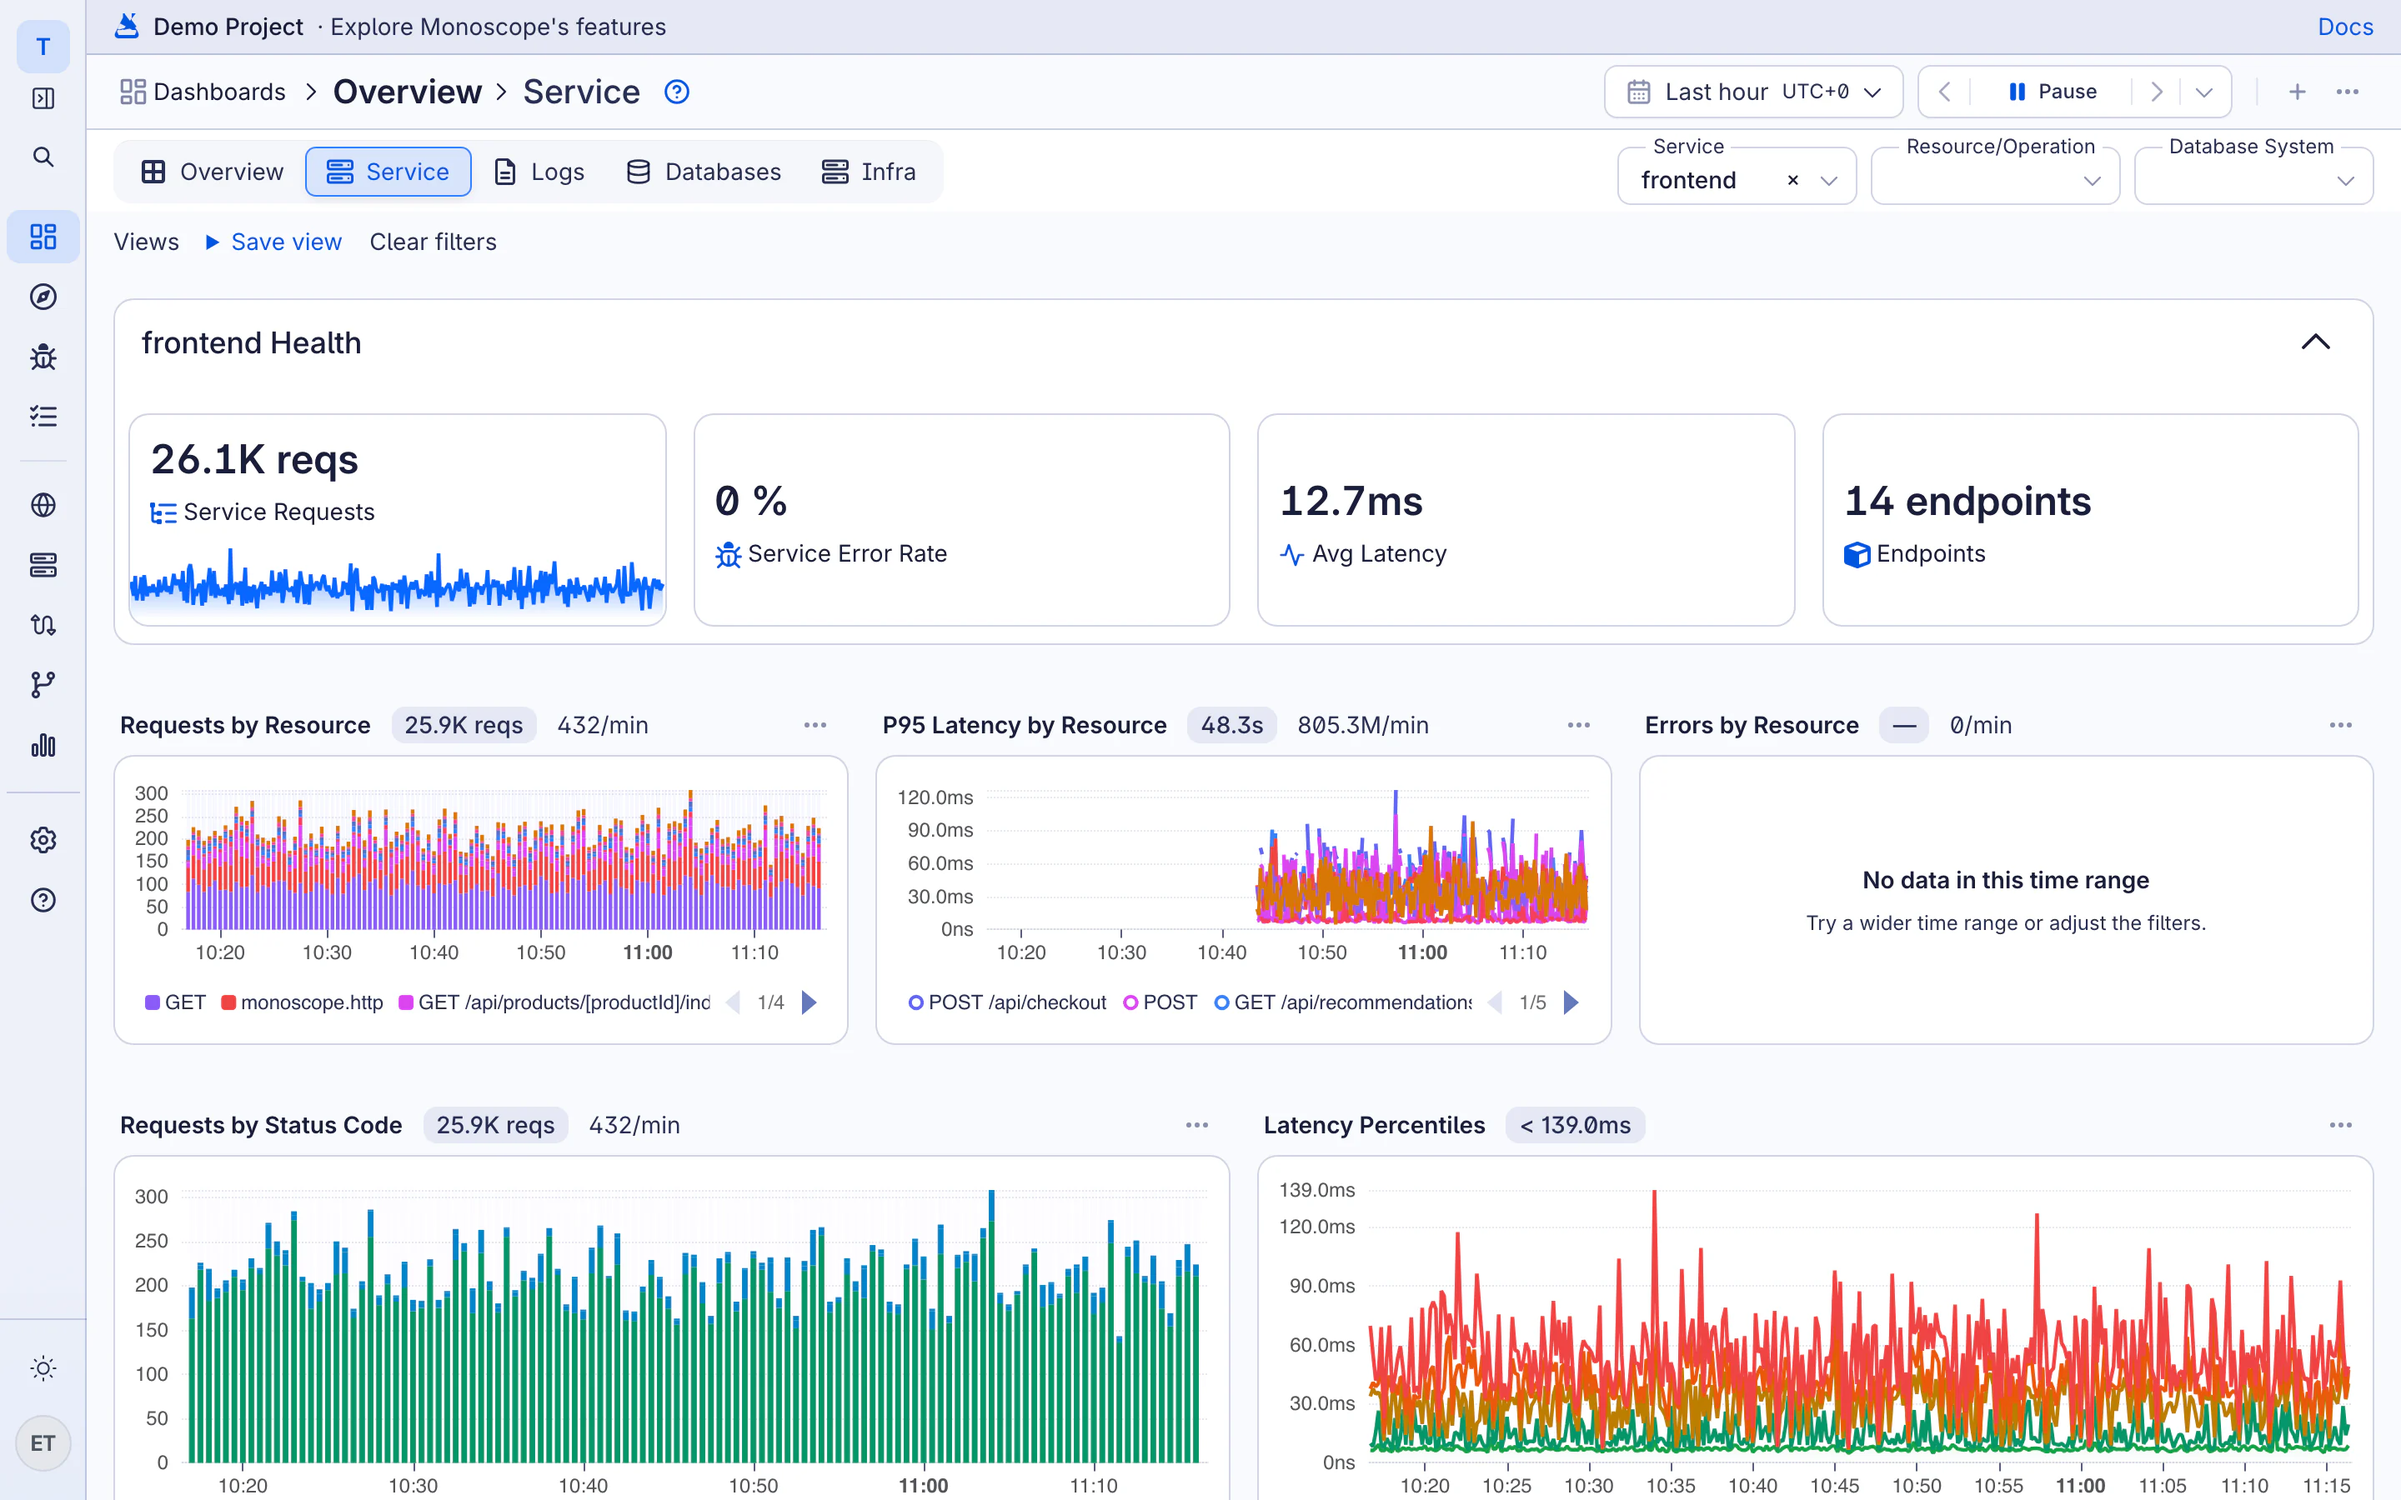
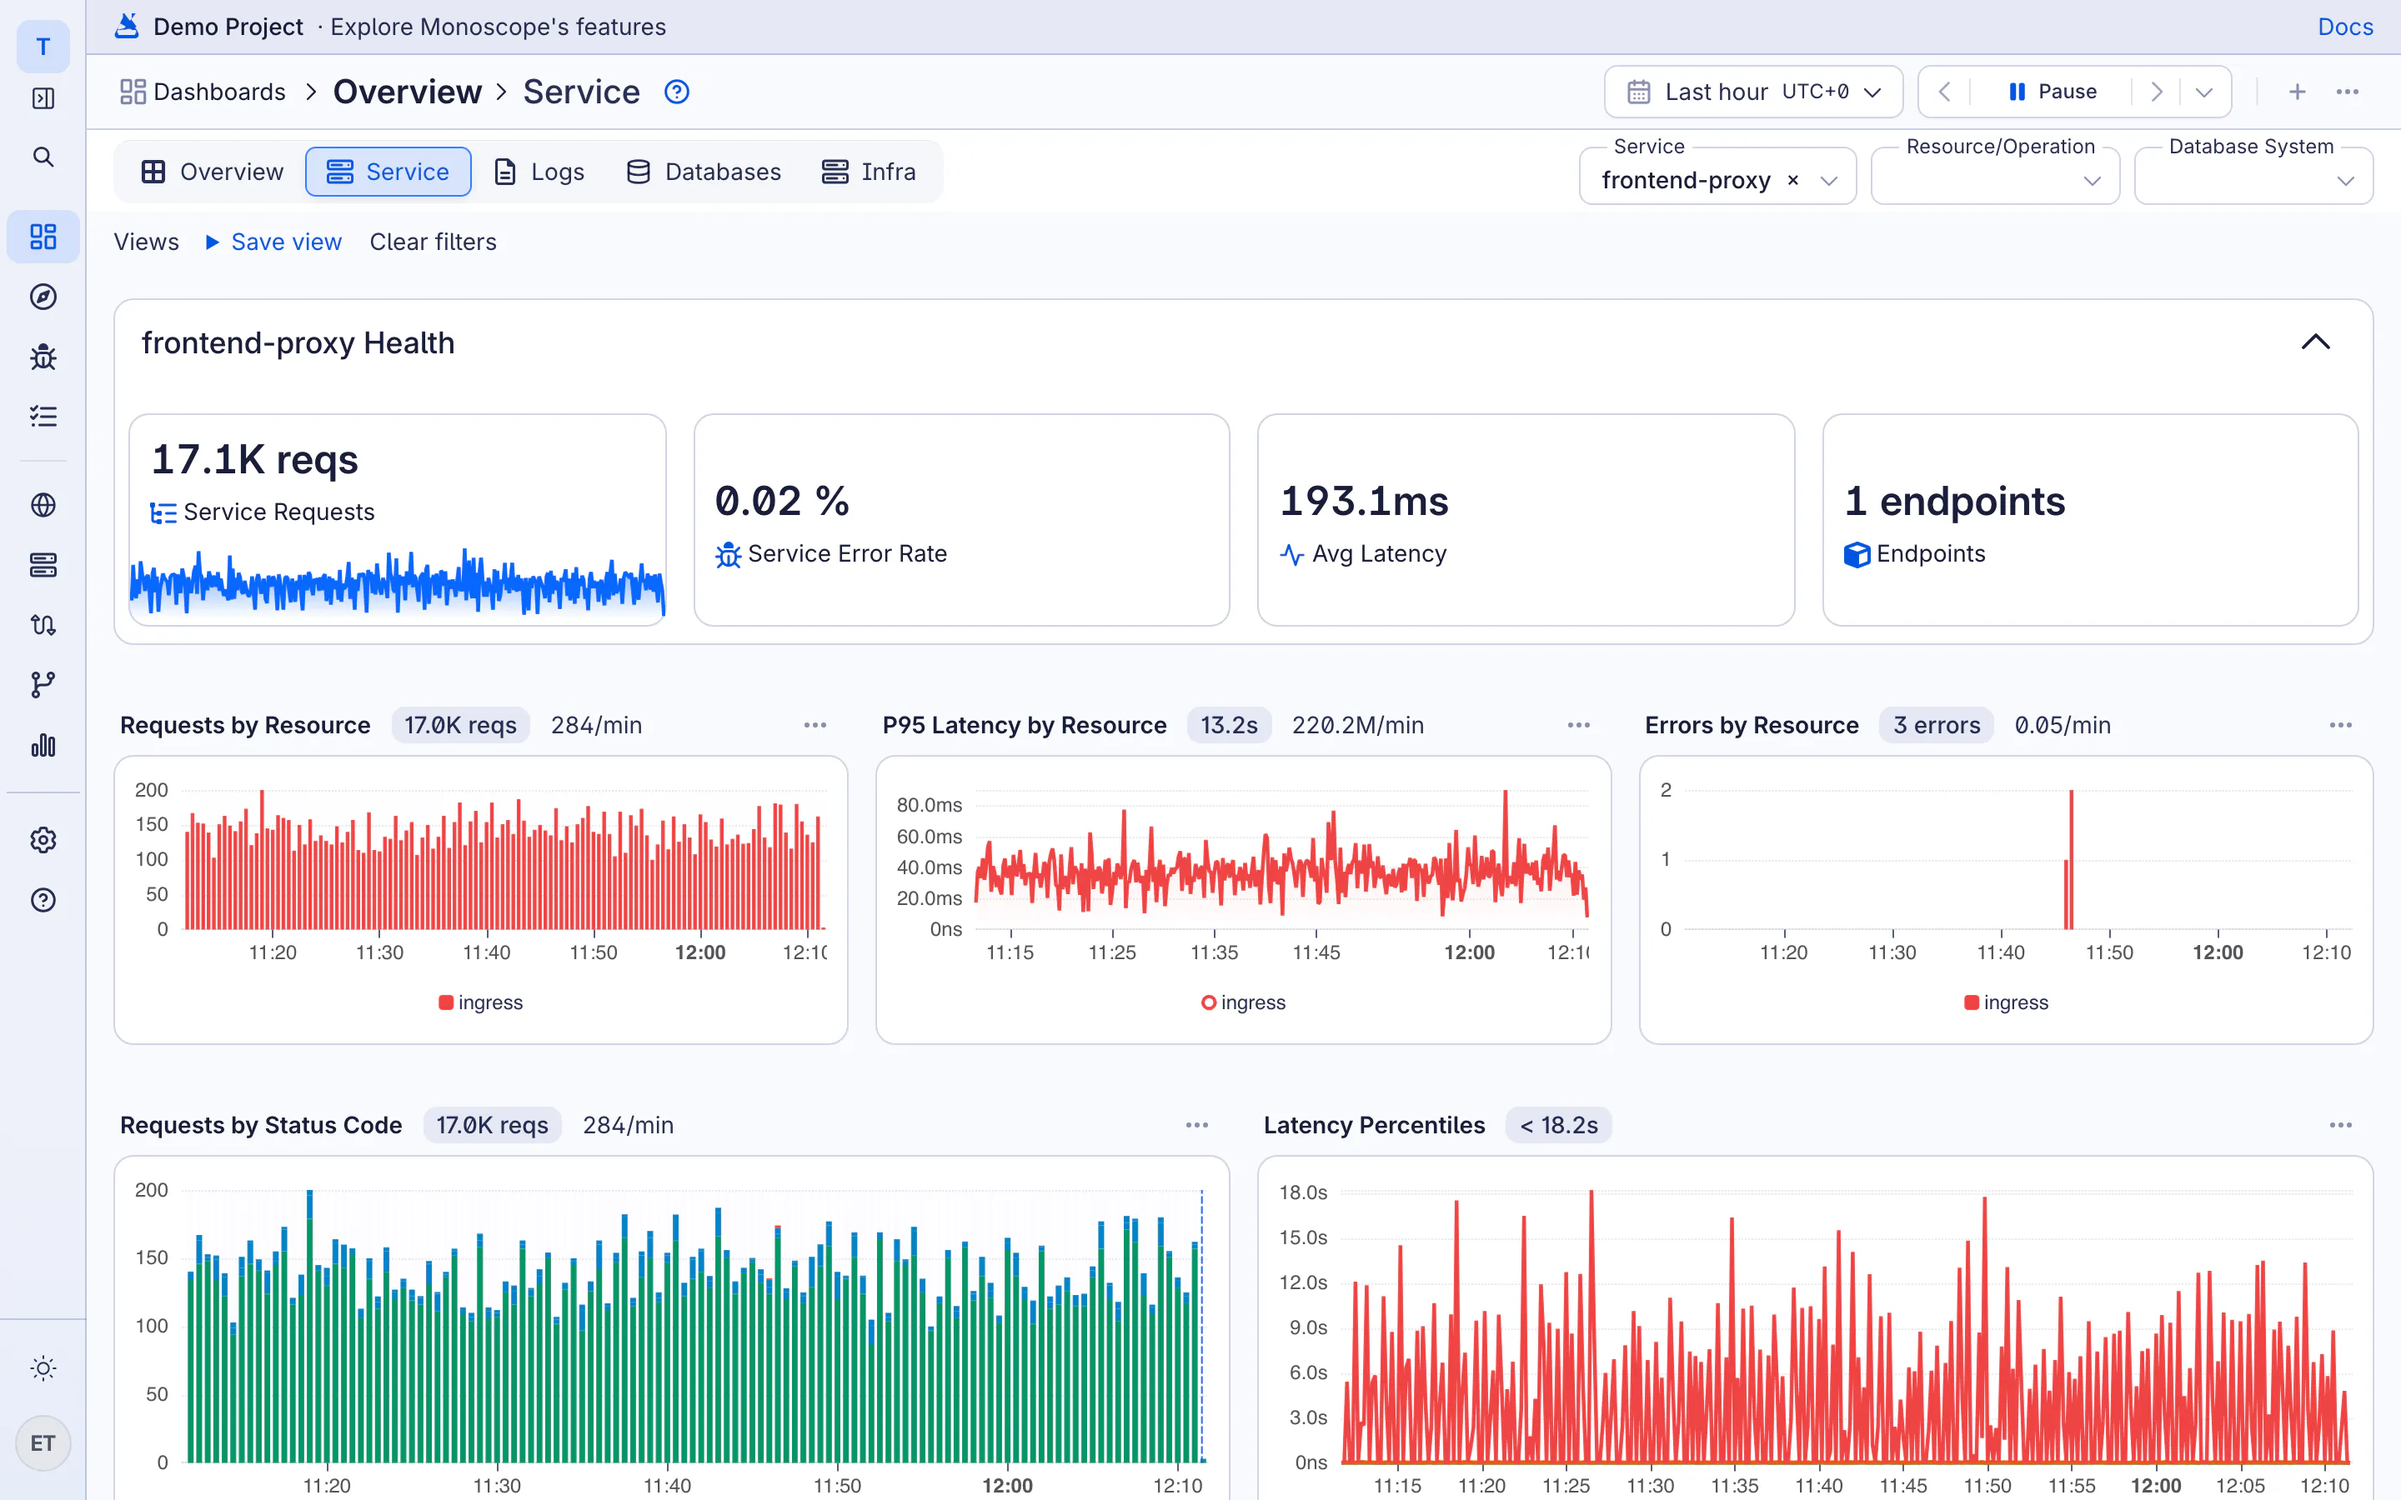
Product shots: add otel-setup, log-explorer-ask, trace-inline, apm-endpoint; recapture cramped or empty ones

diff --git a/assets/img/product/manifest.md b/assets/img/product/manifest.md
@@ -1,27 +1,33 @@
 # Product screenshots
 
-Captured from the public demo project (`https://app.monoscope.tech/p/00000000-0000-0000-0000-000000000000`) with `scripts/capture-product-shots.mjs`. Viewport 1440×900 at 2x (2880×1800 WebP, `cwebp -q 86 -m 6 -sharp_yuv`), timezone UTC. Every shot exists as `<name>-dark.webp` and `<name>-light.webp`; the theme is set with the app's `theme` cookie. All shots are full-viewport (no crop) and keep the sidebar and header.
+Captured from the public demo project (`https://app.monoscope.tech/p/00000000-0000-0000-0000-000000000000`) with `scripts/capture-product-shots.mjs`. Viewport 1440×900 at 2x (2880×1800 WebP, `cwebp -q 80 -m 6 -sharp_yuv`; shots not recaptured on 2026-10-29 used `-q 86`), timezone UTC. Every shot exists as `<name>-dark.webp` and `<name>-light.webp`; the theme is set with the app's `theme` cookie. All shots are full-viewport (no crop) and keep the sidebar and header.
 
 The script hides the demo-only "Book Demo" / "Start Free Trial" header buttons, chat widgets and toasts. Refresh everything with `node scripts/capture-product-shots.mjs`, or refresh single shots with `node scripts/capture-product-shots.mjs trace issues`.
 
-| name | URL path (under `/p/<demo>`) | what it shows | interaction |
-| --- | --- | --- | --- |
-| log-explorer | `/log_explorer` | Explorer: query bar, traces volume chart and latency percentile chart, facet sidebar, live log/span list across services | none |
-| log-explorer-request | `/log_explorer?query=body.response_body != null` | An incoming `GET /api/products/{param}` request opened in the details panel, Request tab, with the JSON response body (product description, categories) visible | clicked the first `/api/products/` row; Res Body tab |
-| trace | `/log_explorer?query=trace_id=="71a7e99c…"&from=2026-10-28T14:50Z&to=…15:00Z` | Trace Breakdown waterfall for a 96-span, 8-error, 9.4 s checkout trace across 11 services (frontend-web → frontend-proxy → frontend → shipping → quote …) | clicked the row, then "View trace". The trace view opens full-screen, so this shot has no app sidebar |
-| issues | `/issues` | Issues inbox: critical 500 errors, gRPC errors, rage clicks, schema changes, with activity sparklines and counts | none |
-| issue-detail | `/issues/e76bd12d-0c56-4779-a348-79e758105791` | Issue #113557 "Shipping Quote Failure in Checkout Service": error frequency chart, AI analysis ("Likely cause: Network"), event highlights, contexts and trace ids | none |
-| dashboard-overview | `/dashboards/6f5ee51d-…/tab/overview` | Overview dashboard: golden signals (traffic, P95 latency, error rate, Apdex), system overview, services health table, ongoing issues | none |
-| dashboard-service | `/dashboards/6f5ee51d-…/tab/service?var-service=frontend` | Overview dashboard, Service tab for `frontend`: requests, error rate, avg latency, endpoints, requests and P95 by resource, status codes, latency percentiles | service picked via URL variable |
-| session-replay | `/rum/sessions` (redirects to Explorer, Sessions view) | Session replay player over the sessions list: a shopper's cart page mid-playback (00:25 of 00:29) | replayed the longest session, let it finish, clicked "Replay from start" |
-| ai-chat | `/ai/757db319-a5b3-431c-bd47-bedb08f33cf3` | AI conversation "Investigate Telemetry, Flagd, and Disk Pressure Alerts": a findings list, an inline bar chart of errors by service, and "8 tool calls" | scrolled the thread down 100px so the chart is in full view (the user's prompt scrolls out) |
-| routines | `/ai/routines` | Routines: 3 installed daily routines (error spikes, faulty metrics, today's logs) with Pause / Send to Slack, plus recent successful runs | none |
-| monitors | `/monitors` | Monitors list: 4 active monitors with KQL queries, schedules, last run and alert/warn thresholds, one alerting | none |
-| api-catalog | `/api_catalog` | API Catalog, incoming: hosts with 24h event counts, last seen, activity bars, Logs / API docs links | none |
-| metrics | `/metrics` | Metrics explorer, Charts view: grid of metric charts (memory pools, routing, browser web vitals) with group-by pickers | none |
-| service-map | `/service_map` | Service map: 34 services and 51 dependencies, left-to-right request flow, per-node error rate, latency and req/s, one dependency group flagged with errors | none |
-| api-changes | `/issues/dd87a53a-b8bb-4236-9ae2-0360834e73d7` | Schema-change issue #113292 "API Change: Cart Endpoint Response Field Modified": `GET /api/cart`, field-changes table with before/after inferred formats and sample values (`user.id`: text, uuid → text), matching span activity chart | none (the list view is `/issues?type=api_change`) |
-| settings-api-keys | `/apis` | Settings, API Keys: two active keys, masked by the app | none |
-| settings-integrations | `/settings/integrations` | Settings, Integrations: Email, Slack, Discord, WhatsApp, PagerDuty notification channels | hid the demo's "Slack token rejected / Reconnect" warning block |
-| settings-members | `/manage_teams` | Settings, Team, Teams tab: the default "Everyone" team | none. The demo has no invited members (the Members tab is an empty state), so this is the populated view |
-| onboarding | `/onboarding?step=Integration` | Onboarding step 4 of 5 "Instrument your apps or servers": API key, language picker (Javascript selected) and the ExpressJS integration guide, including install via Claude Code | clicked "Javascript"; the API key is masked to its first 8 characters |
+| name | URL path (under `/p/<demo>`) | what it shows | interaction | captured |
+| --- | --- | --- | --- | --- |
+| log-explorer | `/log_explorer` | Explorer: query bar, traces volume chart and latency percentile chart, facet sidebar, live log/span list across services | none | 2026-10-29 |
+| log-explorer-request | `/log_explorer?query=body.response_body != null` | An incoming `GET /api/products/{param}` request opened in the details panel, Request tab, with the JSON response body (product description, categories) visible; facet sidebar hidden so the list keeps its method/path column | toggled "Hide filters", clicked the first `/api/products/` row; Res Body tab | 2026-10-29 (recaptured) |
+| log-explorer-ask | `/log_explorer`, Ask AI: "requests that took longer than 1 second" | Explorer with the Ask AI row open: the plain-English question, the generated query `duration > 1s`, 2.1K matching rows in the charts and list (pageviews, flagd streams, accounting consumers, load-generator checkouts) | typed the question into Ask AI and pressed Enter. Each theme is a live AI call; this question returned `duration > 1s` on every run | 2026-10-29 |
+| trace-inline | `/log_explorer?query=name has "user_checkout"` | Log list with a load-generator `user_checkout_single` trace (74 spans) expanded inline: load-generator → frontend-proxy → frontend → product-catalog → postgres `SELECT`, then the `POST /api/cart` branch, with per-span latency and waterfall bars | toggled "Hide filters", clicked the first row's "Expand trace" toggle | 2026-10-29 |
+| trace | `/log_explorer?query=trace_id=="71a7e99c…"&from=2026-10-28T14:50Z&to=…15:00Z` | Trace Breakdown waterfall for a 96-span, 8-error, 9.4 s checkout trace across 11 services (frontend-web → frontend-proxy → frontend → shipping → quote …) | clicked the row, then "View trace". The trace view opens full-screen, so this shot has no app sidebar | 2026-10-29 |
+| issues | `/issues` | Issues inbox: critical 500 errors, gRPC errors, rage clicks, schema changes, with activity sparklines and counts | none | 2026-10-29 |
+| issue-detail | `/issues/e76bd12d-0c56-4779-a348-79e758105791` | Issue #113557 "Shipping Quote Failure in Checkout Service": error frequency chart, AI analysis ("Likely cause: Network"), event highlights, contexts and trace ids | none | 2026-10-29 |
+| dashboard-overview | `/dashboards/6f5ee51d-…/tab/overview` | Overview dashboard: golden signals (traffic, P95 latency, error rate, Apdex), system overview, services health table, ongoing issues | none | 2026-10-29 |
+| dashboard-service | `/dashboards/6f5ee51d-…/tab/service?var-service=frontend-proxy` | Overview dashboard, Service tab for `frontend-proxy`: 17K requests, 0.02% error rate, avg latency, requests / P95 latency / errors by resource (3 errors), requests by status code, latency percentiles | service picked via URL variable (`frontend-proxy` is the only service whose "Errors by Resource" panel is not empty) | 2026-10-29 (recaptured) |
+| session-replay | `/rum/sessions` (redirects to Explorer, Sessions view) | Session replay player over the sessions list: a shopper's cart page mid-playback (00:25 of 00:29). Product images show as broken-image alt text: the recorded page points at the demo shop's internal image host | replayed the longest session, let it finish, clicked "Replay from start" | 2026-10-29 |
+| ai-chat | `/ai/757db319-a5b3-431c-bd47-bedb08f33cf3` | AI conversation "Investigate Telemetry, Flagd, and Disk Pressure Alerts": a findings list, an inline bar chart of errors by service, and "8 tool calls" | scrolled the thread down 100px so the chart is in full view (the user's prompt scrolls out) | 2026-10-29 |
+| routines | `/ai/routines` | Routines: 3 installed daily routines (error spikes, faulty metrics, today's logs) with Pause / Send to Slack, plus recent successful runs | none | 2026-10-29 |
+| monitors | `/monitors` | Monitors list: 4 active monitors with KQL queries, schedules, last run and alert/warn thresholds, one alerting | none | 2026-10-29 |
+| api-catalog | `/api_catalog` | API Catalog, incoming: hosts with 24h event counts, last seen, activity bars, Logs / API docs links | none | 2026-10-29 |
+| metrics | `/metrics` | Metrics explorer, Charts view: grid of metric charts (memory pools, routing, browser web vitals) with group-by pickers | none | 2026-10-29 |
+| service-map | `/service_map` | Service map: 34 services and 51 dependencies, left-to-right request flow, per-node error rate, latency and req/s, one dependency group flagged with errors | dragged the canvas 55px down so the first column clears the "Requests flow left to right" chip | 2026-10-29 (recaptured) |
+| apm-endpoint | `/dashboards/be6c5d62-…/tab/latency?var-endpointHash=a213f867&var-host=frontend` (reached from `/endpoints/details?var-endpointHash=a213f867&var-host=frontend`) | Endpoint Analytics, Latency tab for `POST /api/checkout` on `frontend`: P50 / P75 / P95 / P99 cards (about 63–66 ms) with sparklines, and latency percentiles over the last hour. This tab has no throughput; `dashboard-service` shows requests per resource | none | 2026-10-29 |
+| api-changes | `/issues/dd87a53a-b8bb-4236-9ae2-0360834e73d7` | Schema-change issue #113292 "API Change: Cart Endpoint Response Field Modified": `GET /api/cart`, field-changes table with before/after inferred formats and sample values (`user.id`: text, uuid → text), matching span activity chart | none (the list view is `/issues?type=api_change`) | 2026-10-29 |
+| settings-api-keys | `/apis` | Settings, API Keys: two active keys, masked by the app | none | 2026-10-29 |
+| settings-integrations | `/settings/integrations` | Settings, Integrations: Email, Slack, Discord, WhatsApp, PagerDuty notification channels | hid the demo's "Slack token rejected / Reconnect" warning block | 2026-10-29 |
+| settings-members | `/manage_teams` | Settings, Team, Teams tab: the default "Everyone" team | none. The demo has no invited members (the Members tab is an empty state), so this is the populated view | 2026-10-29 |
+| onboarding | `/onboarding?step=Integration` | Onboarding step 4 of 5 "Instrument your apps or servers": API key, language picker (Javascript selected, "waiting" for data) and the ExpressJS integration guide, including the coding-agent setup | clicked "Javascript"; the API key is masked to its first 8 characters | 2026-10-29 (recaptured) |
+| otel-setup | `/onboarding?step=Integration` | Same onboarding step, guide scrolled to "OpenTelemetry Configuration": `OTEL_EXPORTER_OTLP_ENDPOINT="http://otelcol.monoscope.tech:4317"`, `OTEL_RESOURCE_ATTRIBUTES="x-api-key=YOUR_API_KEY"`, service name and gRPC protocol, next to the masked project API key | clicked "Javascript", scrolled the guide; API key masked | 2026-10-29 |
+
+Not in the demo project (checked 2026-10-29): **uptime checks**. The page exists (`/monitors/uptime`, the "Uptime checks" button on Monitors) but the demo has no checks configured, so it shows the "No uptime checks yet" empty state. There is no uptime-check list or detail to capture; use `monitors` for `/features/uptime-monitoring/` until the demo has a check.
